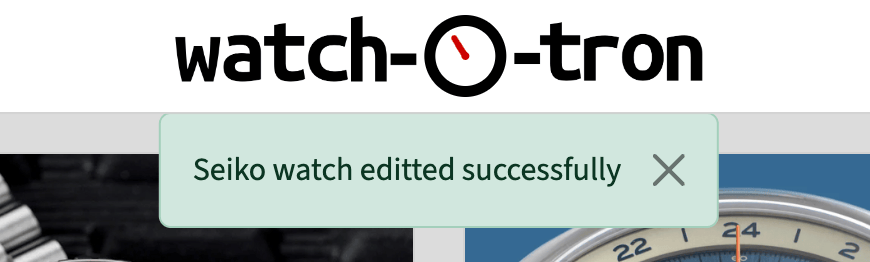
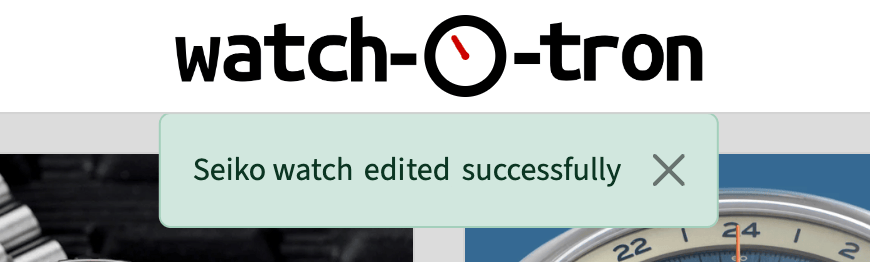
Update TESTING.md: user stories

Changed region(s): [[0.4034, 0.5802, 0.5276, 0.7023]]

diff --git a/watches/views.py b/watches/views.py
@@ -152,7 +152,7 @@ def manage_watch(request, origin, watch_id=None):
             if watch_id:
                 messages.success(
                     request,
-                    f'{watch.make} watch editted successfully'
+                    f'{watch.make} watch edited successfully'
                 )
             else:
                 messages.success(

diff --git a/TESTING.md b/TESTING.md
@@ -230,28 +230,48 @@ The aforementioned tests are just an example of a few different project scenario
 
 ## User Story Testing
 
-🛑🛑🛑🛑🛑🛑🛑🛑🛑🛑-START OF NOTES (to be deleted)
-
-Testing user stories is actually quite simple, once you've already got the stories defined on your README.
-
-Most of your project's **features** should already align with the **user stories**,
-so this should as simple as creating a table with the user story, matching with the re-used screenshot
-from the respective feature.
-
-🛑🛑🛑🛑🛑🛑🛑🛑🛑🛑-END OF NOTES (to be deleted)
-
 | User Story | Screenshot |
 | --- | --- |
-| As a new site user, I would like to ____________, so that I can ____________. | ![screenshot](documentation/features/feature01.png) |
-| As a new site user, I would like to ____________, so that I can ____________. | ![screenshot](documentation/features/feature02.png) |
-| As a new site user, I would like to ____________, so that I can ____________. | ![screenshot](documentation/features/feature03.png) |
-| As a returning site user, I would like to ____________, so that I can ____________. | ![screenshot](documentation/features/feature04.png) |
-| As a returning site user, I would like to ____________, so that I can ____________. | ![screenshot](documentation/features/feature05.png) |
-| As a returning site user, I would like to ____________, so that I can ____________. | ![screenshot](documentation/features/feature06.png) |
-| As a site administrator, I should be able to ____________, so that I can ____________. | ![screenshot](documentation/features/feature07.png) |
-| As a site administrator, I should be able to ____________, so that I can ____________. | ![screenshot](documentation/features/feature08.png) |
-| As a site administrator, I should be able to ____________, so that I can ____________. | ![screenshot](documentation/features/feature09.png) |
-| repeat for all remaining user stories | x |
+| As a new site user, I can sign up for an account so that I can log in and use the app. | ![screeshot](documentation/features/accounts/wot_feature_accounts_sign_up.png "watch-o-tron user story signup") |
+| As a site user, I can log in so that I can use the app. | ![screeshot](documentation/features/accounts/wot_feature_accounts_sign_in.png "watch-o-tron user story login") |
+| As a site user, I can log out so that I can keep my data private. | ![screeshot](documentation/features/accounts/wot_feature_accounts_sign_out.png "watch-o-tron user story logout") |
+| As a site user, I am notified on successful login and logout so that I know that I am logged in or out. | ![screeshot](documentation/features/messaging/wot_feature_comms_message_sign_in.png "watch-o-tron user story login message") ![screeshot](documentation/features/messaging/wot_feature_comms_message_sign_out.png "watch-o-tron user story logout message") |
+| As a site user, I can view my watch collection so that I can view images and details of the watches I own. | ![screeshot](documentation/features/viewing/wot_feature_viewing_desktop.png "watch-o-tron user story home") |
+| As a site user, I can view my wish list so that I can see what watches I want or plan my next purchase. | ![screeshot](documentation/testing/user_story_extras/wot_testing_user_story_wish_list.png "watch-o-tron user story wish list") |
+| As a site user, I can view watches that I have placed in potentially added new list types so that I can see the watch details for this list. | ![screeshot](documentation/testing/user_story_extras/wot_testing_user_story_other_lists.png "watch-o-tron user story custom lists") |
+| As a site user, I can see the details of each watch so that I can find out more information about them. | ![screeshot](documentation/features/viewing/wot_feature_viewing_card_image.png "watch-o-tron user story watch details") |
+| As a site user, I am notified when I have switched views to a new list so that I know which list I am viewing. | ![screeshot](documentation/features/messaging/wot_feature_comms_message_switching_page_1.png "watch-o-tron user story switched view message") ![screeshot](documentation/features/messaging/wot_feature_comms_message_switching.png "watch-o-tron user story switched view message") |
+| As a site user, I can add a new watch so that I ca see it in my collection or wish list. | ![screeshot](documentation/features/addwatch/wot_feature_add_watch_desktop.png "watch-o-tron user story add watch") |
+| As a site user, I am asked to confirm new watch details I entered are correct so that no accidental erroneous data is saved. | ![screeshot](documentation/features/addwatch/wot_feature_add_watch_desktop_confirm.png "watch-o-tron user story add watch confirm") |
+| As a site user, I am notified when a watch has been added successfully so that I know the addition was successful or not. | ![screeshot](documentation/features/messaging/wot_feature_comms_message_confirm_add_watch.png "watch-o-tron user story add watch message") |
+| As a site user, I can see a spinner when I click add watch so that I know something is happening. | ![screeshot](documentation/features/messaging/wot_feature_spinner.png "watch-o-tron user story spinner") |
+| As a site user, I should be prompted to confirm watch deletions so that I do not delete watches by accident. | ![screeshot](documentation/features/delete/wot_feature_delete_desktop.png "watch-o-tron user story delete confirm") |
+| As a site user, I can edit stored watches in my collection so that I can add more detail or update existing information. | ![screeshot](documentation/features/editing/wot_feature_editing_desktop.png "watch-o-tron user story watch edit") |
+| As a site user, I can move a watch in my wish list to my collection so that I know that I have purchased it. | ![screeshot](documentation/features/purchased/wot_feature_purchased_desktop_confirm.png "watch-o-tron user story watch purchase") |
+| As a site user, I can delete a watch from the wish list so that I can update my wish list should I no longer want a particular watch. | ![screeshot](documentation/testing/user_story_extras/wot_testing_user_story_delete_wish_list.png "watch-o-tron user story delete from wish list") |
+| As a site user, I can delete a watch from a new list type so that I can update this list when I no longer want the watch to appear in it. | ![screeshot](documentation/testing/user_story_extras/wot_testing_user_story_delete_other_list.png "watch-o-tron user story delete from other list") |
+| As a site user, I can edit stored watches in my wish list so that I can add more detail or update existing information. | ![screeshot](documentation/testing/user_story_extras/wot_testing_user_story_edit_wish_list.png "watch-o-tron user story edit in wish list") |
+| As a site user, I can edit stored watches in a new list type so that I can add more detail or update existing information. | ![screeshot](documentation/testing/user_story_extras/wot_testing_user_story_edit_other_list.png "watch-o-tron user story edit in other list") |
+| As a site user, I can delete a watch from my collection so that I can update my lists if I no longer own a particular watch. | ![screeshot](documentation/features/delete/wot_feature_delete_desktop.png "watch-o-tron user story delete watch") |
+| As a site user, I should be prompted to confirm alterations so that edits are correct. | ![screeshot](documentation/features/editing/wot_feature_edit_confirm_desktop.png "watch-o-tron user story edit confirm") |
+| As a site user, I should be asked to confirm when I set a watch as purchased so that I don't accidentally move a watch to my collection if I haven't bought it. | ![screeshot](documentation/features/purchased/wot_feature_purchased_desktop_confirm.png "watch-o-tron user story watch purchase") |
+| As a site user, I am notified after editing and deleting watches so that I know if the process was successful. | ![screeshot](documentation/features/messaging/wot_feature_comms_message_confirm_edit_watch.png "watch-o-tron user story edit message") ![screeshot](documentation/features/messaging/wot_feature_comms_message_confirm_delete_watch.png "watch-o-tron user story delete message") |
+| As a site user, I am notified when I move a watch to the collection so that it is confirmed whether the process was successful. | ![screeshot](documentation/testing/user_story_extras/wot_testing_user_story_message_moved_to_collection.png "watch-o-tron user story move to collection") |
+| As a site user, I can see a spinner when I confirm a watch edit so that I know something is happening. | ![screeshot](documentation/features/messaging/wot_feature_spinner.png "watch-o-tron user story spinner") |
+| As a curious site user, I can discover a hidden Easter egg in the site logo so that I experience an unexpected, delightful surprise within the application. |  |
+| As a curious site user, I can discover a hidden Easter egg in the date complication icon so that I experience an unexpected, delightful surprise within the application. |  |
+| As a curious site user, I can discover a hidden Easter egg in the day complication icon so that I experience an unexpected, delightful surprise within the application. |  |
+| As a curious site user, I can discover a hidden Easter egg in the moon phase complication icon so that I experience an unexpected, delightful surprise within the application. |  |
+| As a client, I can log in as a staff member so that I can add potential new, important options for users. | ![screeshot](documentation/features/accounts/wot_feature_accounts_staff_logged_in_desktop.png "watch-o-tron user story staff login") |
+| As a site staff member, I can add new watch movement types to the model so that users can add watches with any new movement types that may become available in the future. | ![screeshot](documentation/testing/user_story_extras/wot_testing_user_story_add_movement.png "watch-o-tron user story add movement") |
+| As a site staff member, I can add new list types so that users can expand their lists from collection and wish list to other types specified by the site staff member. | ![screeshot](documentation/testing/user_story_extras/wot_testing_user_story_add_list.png "watch-o-tron user story add list") |
+| As a site staff member, I can edit any movement types I have added so that I can change them if needed. | ![screeshot](documentation/testing/user_story_extras/wot_testing_user_story_edit_movement.png "watch-o-tron user story edit movement") |
+| As a site staff member, I can delete any new movement types so that I can keep the list relevant. | ![screeshot](documentation/testing/user_story_extras/wot_testing_user_story_delete_movement.png "watch-o-tron user story delete movement") |
+| As a site staff member, I can edit any added list types so that I keep the app up to date. | ![screeshot](documentation/testing/user_story_extras/wot_testing_user_story_edit_list.png "watch-o-tron user story edit list") |
+| As a site staff member, I can delete custom added lists so that I can remove any unwanted list types. | ![screeshot](documentation/testing/user_story_extras/wot_testing_user_story_delete_list.png "watch-o-tron user story delete list") |
+| As a staff member, I am notified about edits and deletes I make for custom movements so that I know if the change was successful. | ![screeshot](documentation/features/messaging/wot_feature_comms_message_confirm_edit_staff_item.png "watch-o-tron user story messages edit movement") ![screeshot](documentation/features/messaging/wot_feature_comms_message_confirm_delete_staff_item.png "watch-o-tron user story messages delete movement") |
+| As a staff member, I am notified of successful list edits and deletions so that I know the process was successful. | ![screeshot](documentation/features/messaging/wot_feature_comms_message_confirm_edit_staff_item.png "watch-o-tron user story messages edit list") ![screeshot](documentation/testing/user_story_extras/wot_testing_user_story_delete_list_message.png "watch-o-tron user story messages delete list") |
+| As a site admin, I can log in as a super user so that I can access the admin panel. | ![screeshot](documentation/features/accounts/wot_feature_accounts_admin_logged_in_desktop.png "watch-o-tron user story super user login") |
 
 ## Automated Testing
 
